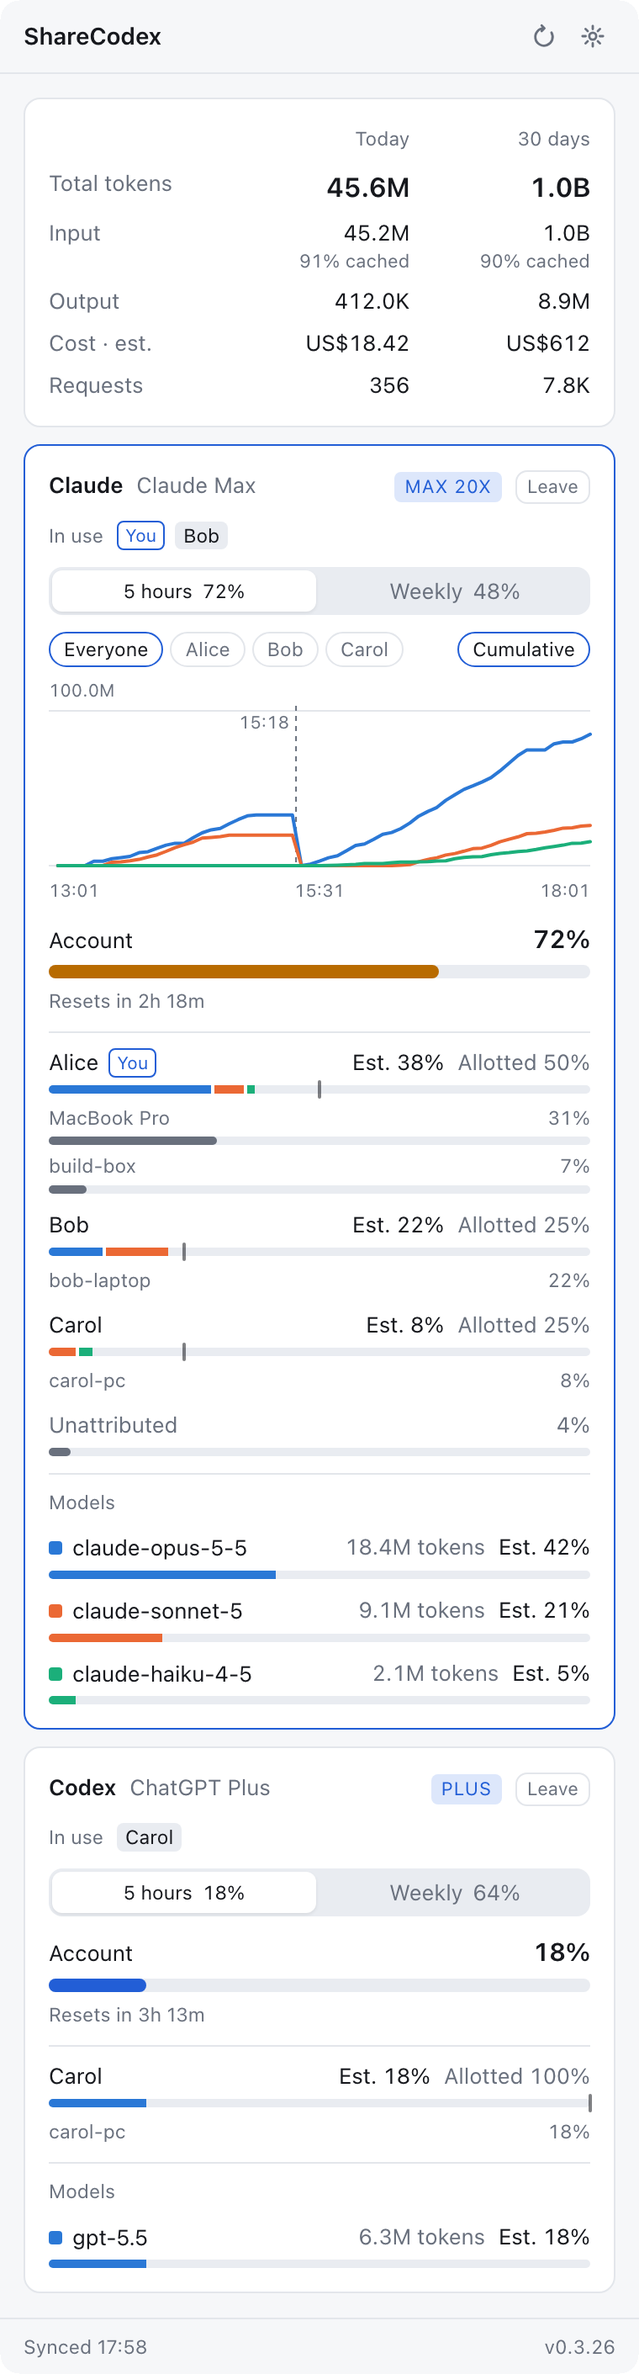
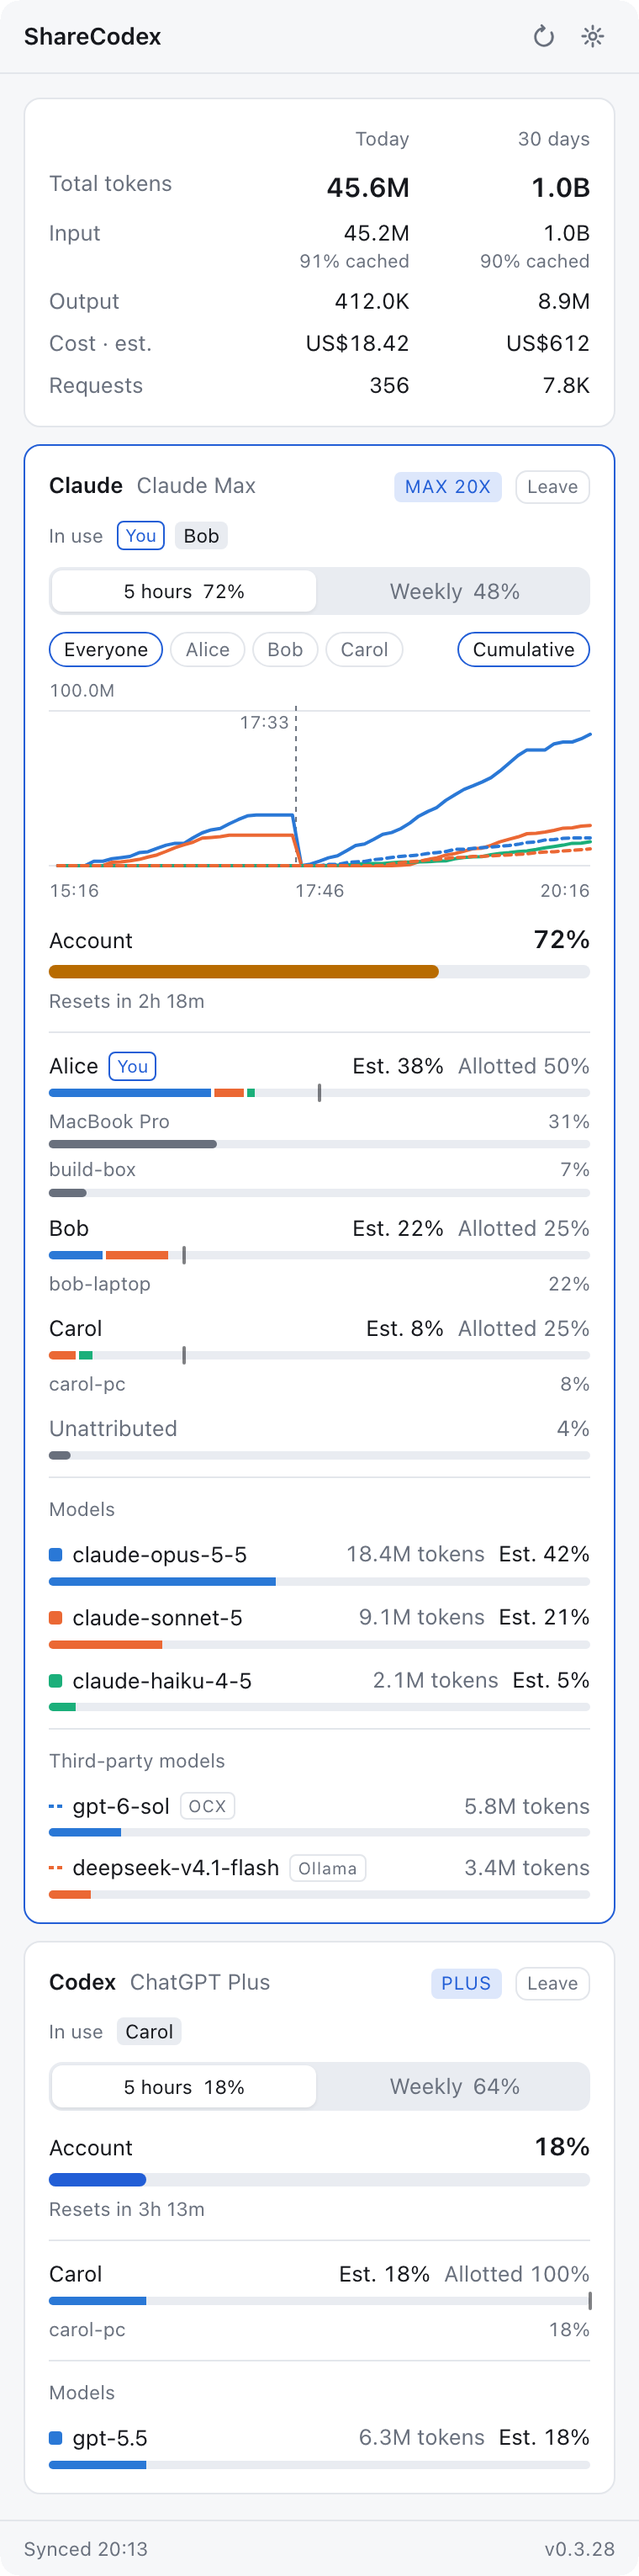
docs: show third-party models and their gateway tags

diff --git a/README.md b/README.md
@@ -93,6 +93,14 @@ stays in view after a reset; with it off, the tokens used in each span. Switch i
 a single member, and hover to read the values. **Full chart detail** in Settings draws every minute
 (every half hour on the weekly chart) instead.
 
+### Third-party models
+
+Claude Code and Claude Desktop can be pointed at other vendors' models through a gateway. Those
+requests are recorded against the account the client used and shown as dashed lines on its chart and
+in a separate **Third-party models** list, with bars on the same scale as its own models, but they
+never count toward the quota, the estimates or the allotments. Models used through OpenCodex or
+Ollama (`ollama launch claude`) are tagged **OCX** or **Ollama**.
+
 ### Joining takes one link
 
 An admin creates a single-use join link in the web console; a member who has joined can create
